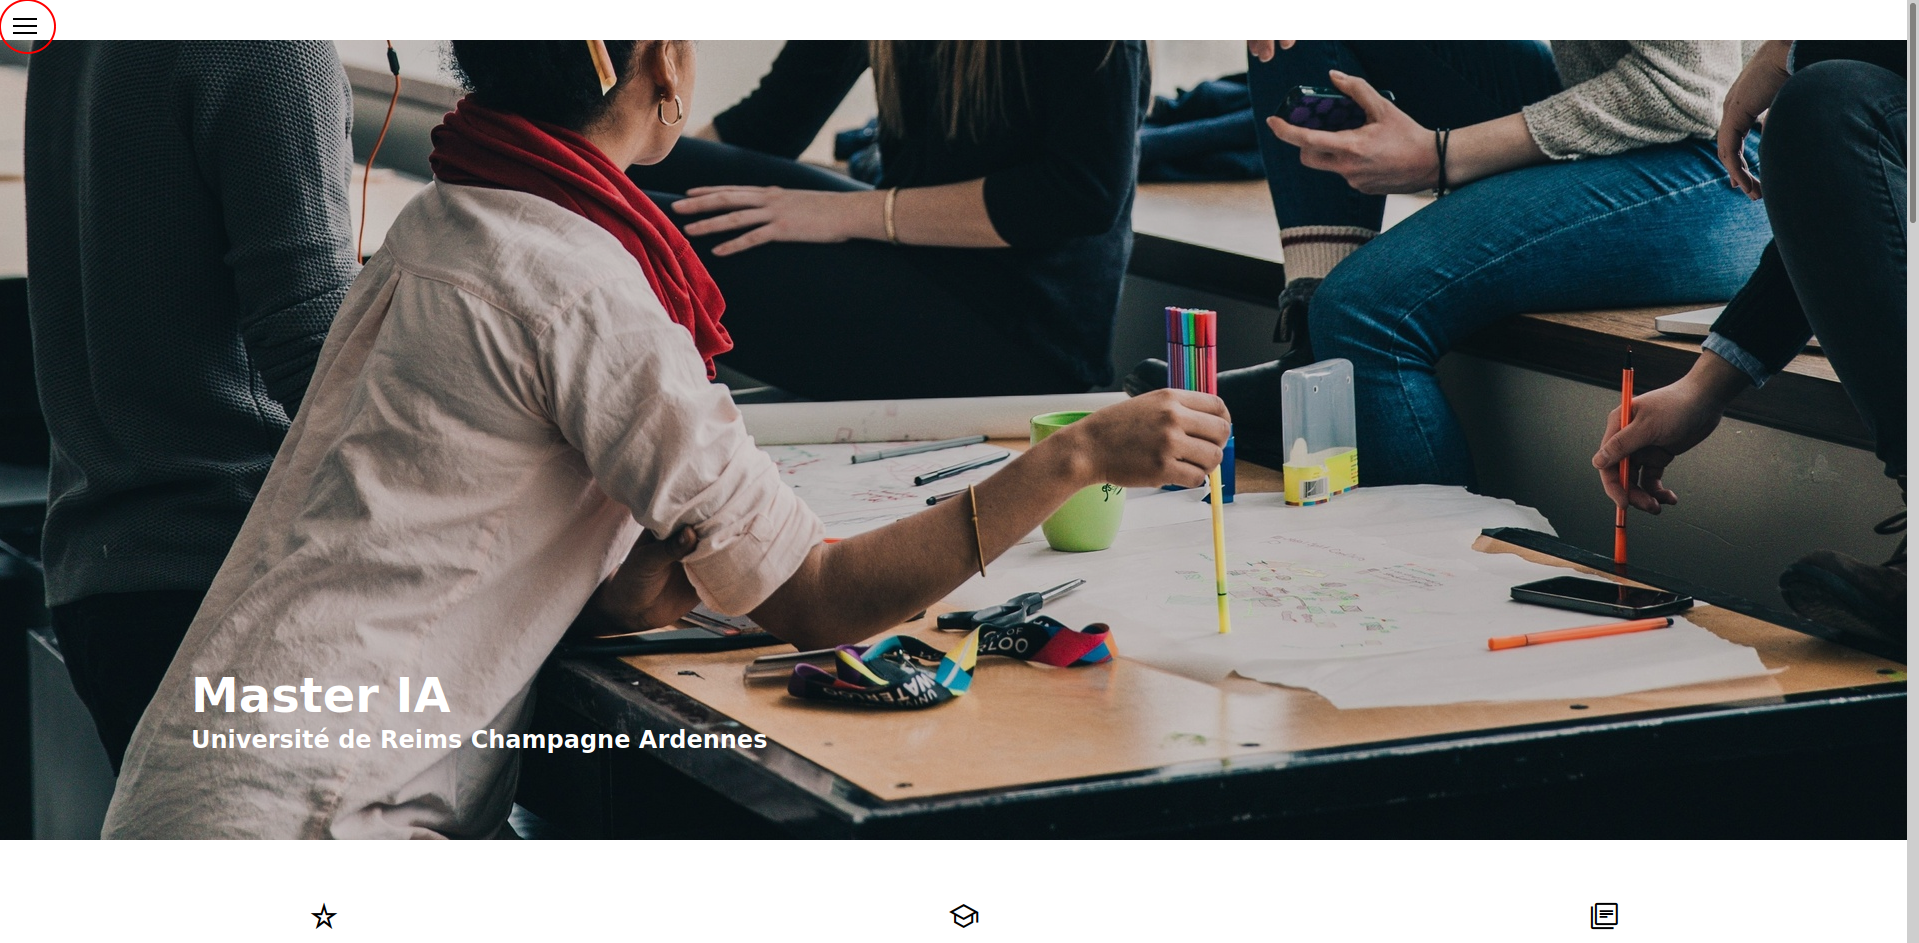
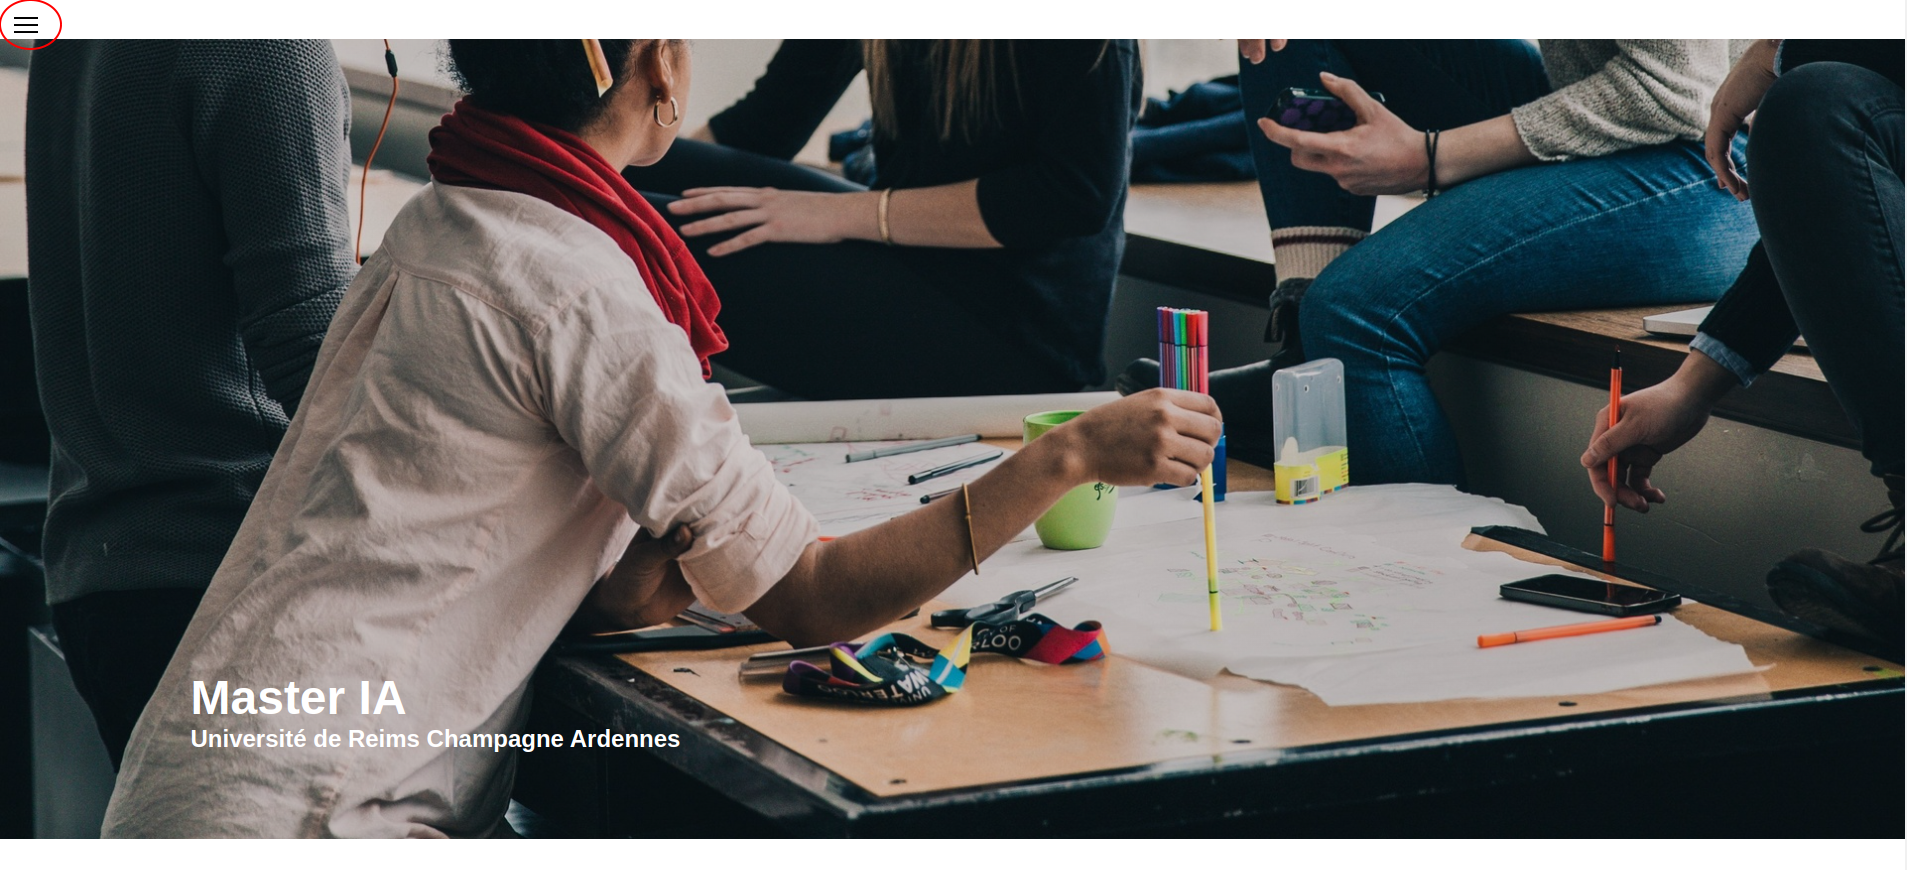
fin tuto

diff --git a/public/css/tuto.css b/public/css/tuto.css
@@ -184,8 +184,8 @@ li{
     margin: 20px 2px 20px 0;
 }
 img.tuto{
-    width: 1150px;
-    height: 500px;
+    width: 1000px;
+    height: 430px;
 }
 div.img{
     margin: 30px;
